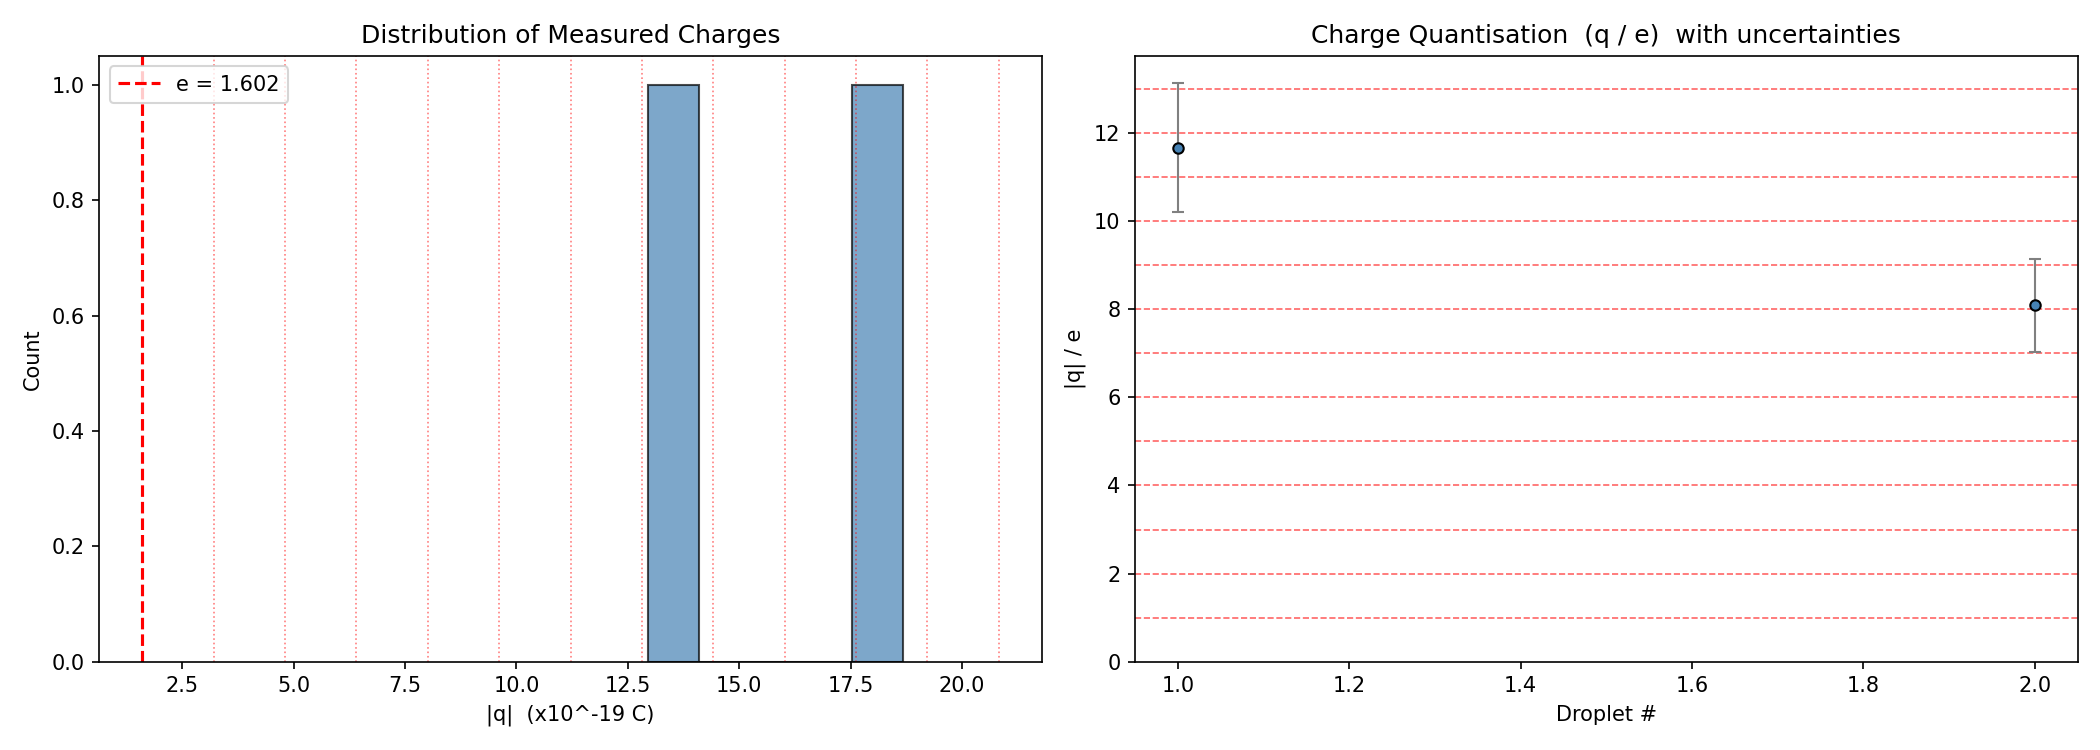
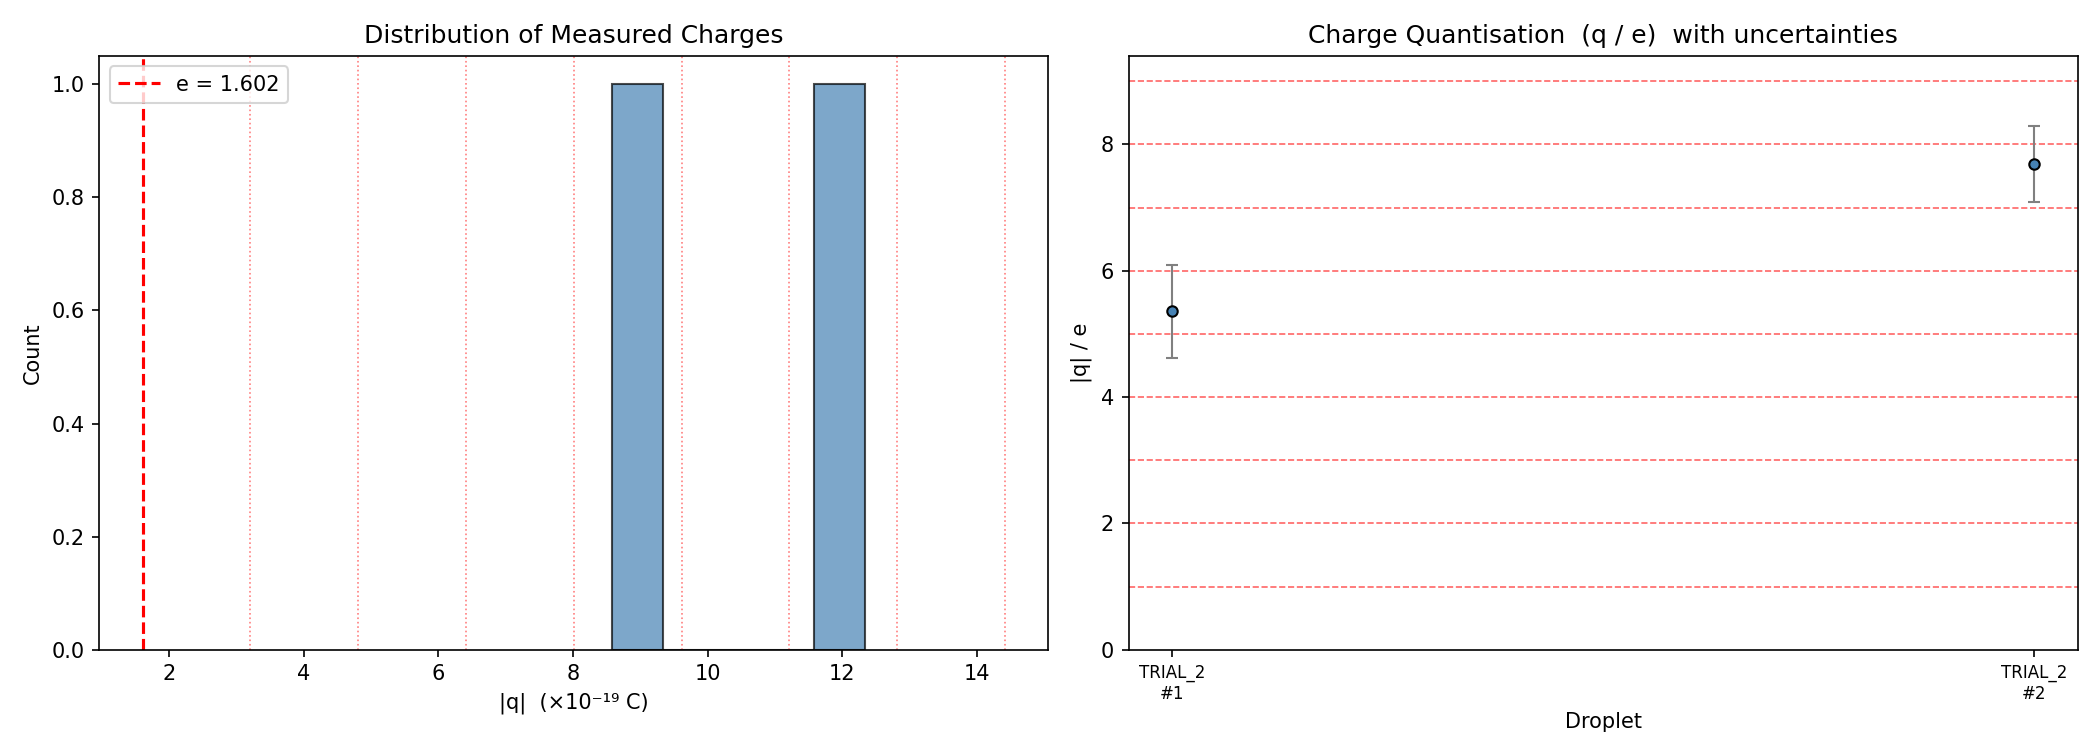
Velocity plots / seperate analysis for both trials in same video

diff --git a/calculate_charge.py b/calculate_charge.py
@@ -245,7 +245,8 @@ def extract_velocities(marks: list[dict], reticle_dist: float,
         top  → bottom  =  falling:  v_f = reticle_dist / Δt
         bottom → top   =  rising:   v_r = reticle_dist / Δt
 
-    Returns (pairs, falls, rises).
+    Returns (pairs, falls, rises).  Each interval dict also stores
+    t_start, t_end, t_mid (seconds) for plotting.
     """
     if len(marks) < 2:
         return [], [], []
@@ -262,6 +263,9 @@ def extract_velocities(marks: list[dict], reticle_dist: float,
             "dt":        dt,
             "frame0":    m0["frame"],
             "frame1":    m1["frame"],
+            "t_start":   m0["time_s"],
+            "t_end":     m1["time_s"],
+            "t_mid":     (m0["time_s"] + m1["time_s"]) / 2.0,
         })
 
     falls = [iv for iv in intervals if iv["direction"] == "top->bottom"]
@@ -384,6 +388,10 @@ def analyse_file(json_path: str, params: dict) -> list[dict]:
 
         pair = pairs[0]
 
+        # Store raw interval data for per-droplet plots
+        pair["_falls"] = falls
+        pair["_rises"] = rises
+
         # -- Charge with uncertainty --------------------------------------
         res = compute_charge_with_uncertainty(
             v_fall=pair["v_fall"], v_rise=pair["v_rise"],
@@ -412,6 +420,7 @@ def analyse_file(json_path: str, params: dict) -> list[dict]:
 
         # Store everything
         res["droplet_id"]    = drop_id
+        res["video_file"]    = data.get("video_file", os.path.basename(json_path))
         res["voltage_lo_V"]  = V_lo
         res["voltage_hi_V"]  = V_hi
         res["voltage_nom_V"] = V_nom
@@ -426,6 +435,8 @@ def analyse_file(json_path: str, params: dict) -> list[dict]:
         res["n_rise_meas"]   = nr
         res["delta_q_stat"]  = delta_q_stat
         res["delta_q_total"] = delta_q_total
+        res["_falls"]        = pair["_falls"]
+        res["_rises"]        = pair["_rises"]
         results.append(res)
 
         # -- Pretty-print -------------------------------------------------
@@ -470,7 +481,73 @@ def analyse_file(json_path: str, params: dict) -> list[dict]:
 #  Plotting
 # ═══════════════════════════════════════════════════════════════════════════════
 
-def make_histogram(all_results: list[dict], output_dir: str):
+def make_velocity_plot(result: dict, output_dir: str):
+    """Per-droplet velocity vs time plot."""
+    falls = result.get("_falls", [])
+    rises = result.get("_rises", [])
+    drop_id = result["droplet_id"]
+    video   = result.get("video_file", "")
+    label   = f"{Path(video).stem}_drop{drop_id}" if video else f"drop{drop_id}"
+
+    if not falls and not rises:
+        return
+
+    fig, ax = plt.subplots(figsize=(10, 5))
+
+    # Fall velocities (positive downward)
+    if falls:
+        t_f = [iv["t_mid"] for iv in falls]
+        v_f = [iv["velocity"] * 1e4 for iv in falls]  # ×10⁻⁴ m/s
+        ax.plot(t_f, v_f, "bv-", markersize=7, label=f"v_fall (avg {result['v_fall']*1e4:.3f})")
+        ax.axhline(result["v_fall"] * 1e4, color="blue", ls="--", lw=0.8, alpha=0.5)
+
+    # Rise velocities
+    if rises:
+        t_r = [iv["t_mid"] for iv in rises]
+        v_r = [iv["velocity"] * 1e4 for iv in rises]
+        ax.plot(t_r, v_r, "r^-", markersize=7, label=f"v_rise (avg {result['v_rise']*1e4:.3f})")
+        ax.axhline(result["v_rise"] * 1e4, color="red", ls="--", lw=0.8, alpha=0.5)
+
+    ax.set_xlabel("Time (s)")
+    ax.set_ylabel("Velocity  (×10⁻⁴ m/s)")
+    ax.set_title(f"Velocity vs Time — {label}\n"
+                 f"q = {result['q_C']:.3e} C   n ≈ {result['n_est']}   "
+                 f"q/e = {abs(result['q_C'])/e_KNOWN:.2f}")
+    ax.legend()
+    ax.grid(True, alpha=0.3)
+
+    plt.tight_layout()
+    plot_path = os.path.join(output_dir, f"velocity_{label}.png")
+    plt.savefig(plot_path, dpi=150)
+    plt.close(fig)
+    print(f"[PLOT SAVED] {plot_path}")
+
+
+def make_droplet_summary(result: dict, output_dir: str):
+    """Per-droplet single-row CSV."""
+    video = result.get("video_file", "")
+    label = f"{Path(video).stem}_drop{result['droplet_id']}" if video else f"drop{result['droplet_id']}"
+    csv_path = os.path.join(output_dir, f"charge_{label}.csv")
+    fields = [
+        "droplet_id", "video_file",
+        "voltage_lo_V", "voltage_hi_V", "voltage_nom_V",
+        "T_lo_C", "T_hi_C", "T_nom_C",
+        "t_fall_avg", "t_rise_avg", "n_fall_meas", "n_rise_meas",
+        "v_fall", "v_rise",
+        "a1_m", "q0_C", "q_C", "n_est", "q_over_e",
+        "delta_q_V", "delta_q_T", "delta_q_combined",
+        "delta_q_stat", "delta_q_total",
+    ]
+    with open(csv_path, "w", newline="") as f:
+        writer = csv.DictWriter(f, fieldnames=fields, extrasaction="ignore")
+        writer.writeheader()
+        row = dict(result)
+        row["q_over_e"] = abs(result["q_C"]) / e_KNOWN
+        writer.writerow(row)
+    print(f"[CSV SAVED] {csv_path}")
+
+
+def make_histogram(all_results: list[dict], output_dir: str, prefix: str = ""):
     """Histogram of charges + q/e scatter with error bars."""
     if not all_results:
         print("No results to plot.")
@@ -481,6 +558,12 @@ def make_histogram(all_results: list[dict], output_dir: str):
     errors_e  = [r["delta_q_total"] / e_KNOWN for r in all_results]
     n_values  = [r["n_est"] for r in all_results]
     max_n     = max(n_values) if n_values else 5
+
+    # Use video+drop labels on x-axis for clarity
+    drop_labels = []
+    for r in all_results:
+        vid = Path(r.get("video_file", "")).stem
+        drop_labels.append(f"{vid}\n#{r['droplet_id']}")
 
     fig, axes = plt.subplots(1, 2, figsize=(14, 5))
 
@@ -497,36 +580,41 @@ def make_histogram(all_results: list[dict], output_dir: str):
         lbl = f"e = {e_KNOWN*1e19:.3f}" if n == 1 else None
         ax1.axvline(n * e_KNOWN * 1e19, color="red", linestyle=ls,
                     linewidth=lw, alpha=al, label=lbl)
-    ax1.set_xlabel("|q|  (x10^-19 C)")
+    ax1.set_xlabel("|q|  (×10⁻¹⁹ C)")
     ax1.set_ylabel("Count")
     ax1.set_title("Distribution of Measured Charges")
     ax1.legend()
 
     # -- q / e scatter with error bars ------------------------------------
     ax2 = axes[1]
-    drop_ids = [r["droplet_id"] for r in all_results]
-    ax2.errorbar(drop_ids, charges_e, yerr=errors_e, fmt="o",
+    x_pos = list(range(len(all_results)))
+    ax2.errorbar(x_pos, charges_e, yerr=errors_e, fmt="o",
                  color="steelblue", ecolor="gray", elinewidth=1,
                  capsize=3, markersize=5, markeredgecolor="black", zorder=3)
+    ax2.set_xticks(x_pos)
+    ax2.set_xticklabels(drop_labels, fontsize=8)
     for n in range(1, max_n + 2):
         ax2.axhline(n, color="red", linestyle="--", linewidth=0.8, alpha=0.6)
-    ax2.set_xlabel("Droplet #")
+    ax2.set_xlabel("Droplet")
     ax2.set_ylabel("|q| / e")
     ax2.set_title("Charge Quantisation  (q / e)  with uncertainties")
     ax2.set_ylim(bottom=0)
 
     plt.tight_layout()
-    plot_path = os.path.join(output_dir, "charge_analysis.png")
+    fname = f"charge_analysis_{prefix}.png" if prefix else "charge_analysis.png"
+    plot_path = os.path.join(output_dir, fname)
     plt.savefig(plot_path, dpi=150)
     plt.close(fig)
     print(f"\n[PLOT SAVED] {plot_path}")
 
 
-def make_summary_table(all_results: list[dict], output_dir: str):
+def make_summary_table(all_results: list[dict], output_dir: str, prefix: str = ""):
     """Save a summary CSV."""
-    csv_path = os.path.join(output_dir, "charge_results.csv")
+    fname = f"charge_results_{prefix}.csv" if prefix else "charge_results.csv"
+    csv_path = os.path.join(output_dir, fname)
     fields = [
-        "droplet_id", "voltage_lo_V", "voltage_hi_V", "voltage_nom_V",
+        "droplet_id", "video_file",
+        "voltage_lo_V", "voltage_hi_V", "voltage_nom_V",
         "T_lo_C", "T_hi_C", "T_nom_C",
         "t_fall_avg", "t_rise_avg", "n_fall_meas", "n_rise_meas",
         "v_fall", "v_rise",
@@ -711,8 +799,17 @@ def main():
 
     # -- Output files -----------------------------------------------------
     output_dir = str(Path(json_files[0]).parent)
-    make_summary_table(all_results, output_dir)
-    make_histogram(all_results, output_dir)
+    # Build a prefix from the input file stems to avoid overwriting
+    stems = [Path(jf).stem.replace("_marks", "") for jf in json_files]
+    prefix = "_".join(stems) if len(stems) <= 3 else f"{len(stems)}_trials"
+    make_summary_table(all_results, output_dir, prefix)
+    make_histogram(all_results, output_dir, prefix)
+
+    # -- Per-droplet outputs ----------------------------------------------
+    print("\n--- Per-droplet outputs ---")
+    for r in all_results:
+        make_velocity_plot(r, output_dir)
+        make_droplet_summary(r, output_dir)
 
 
 if __name__ == "__main__":
